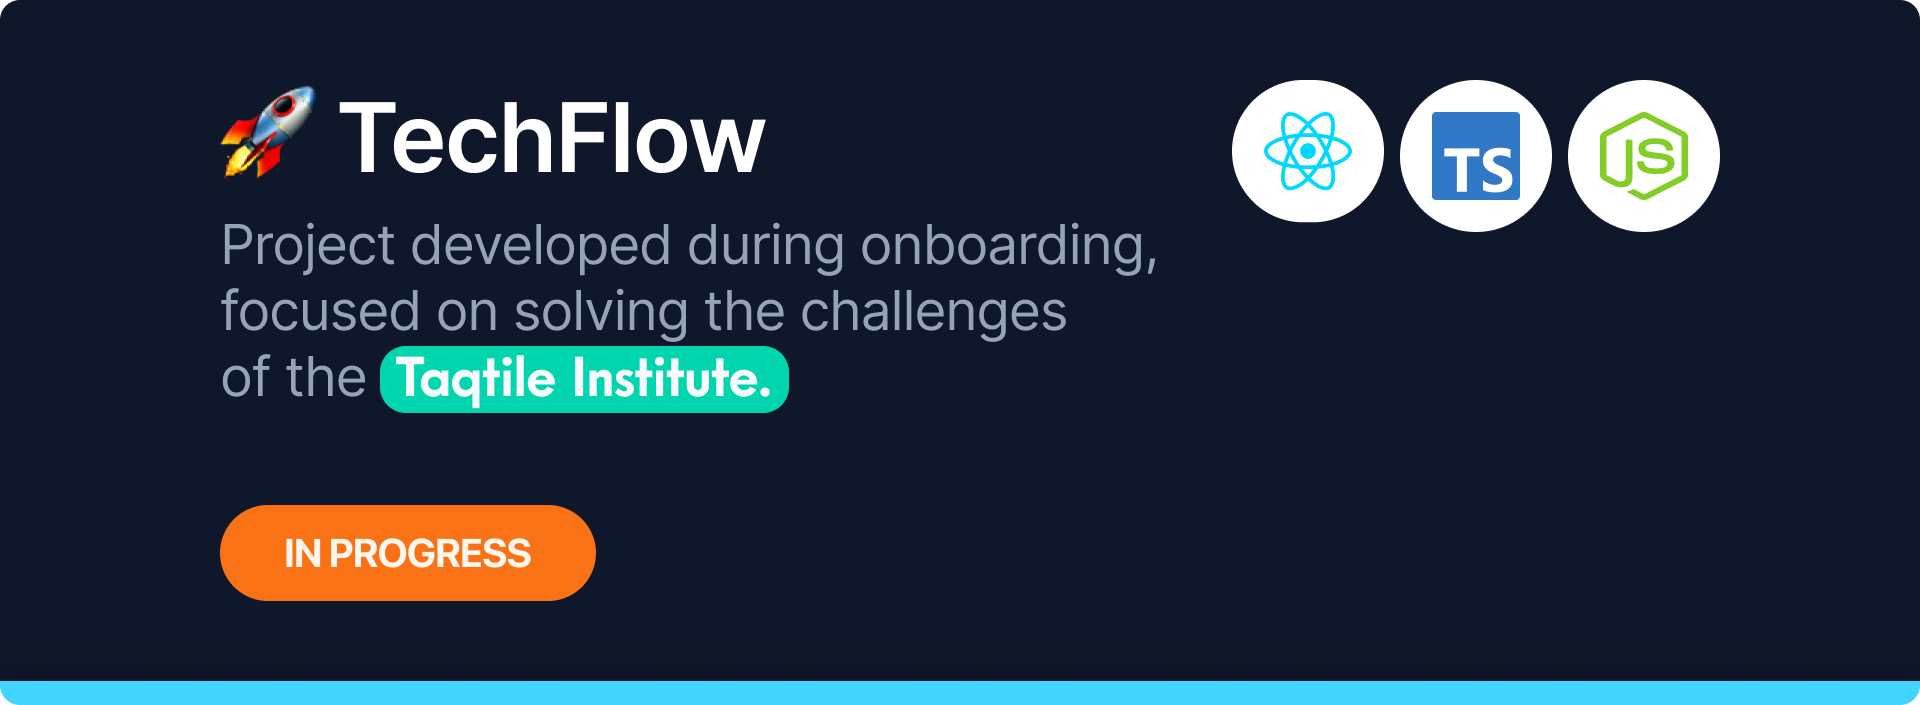
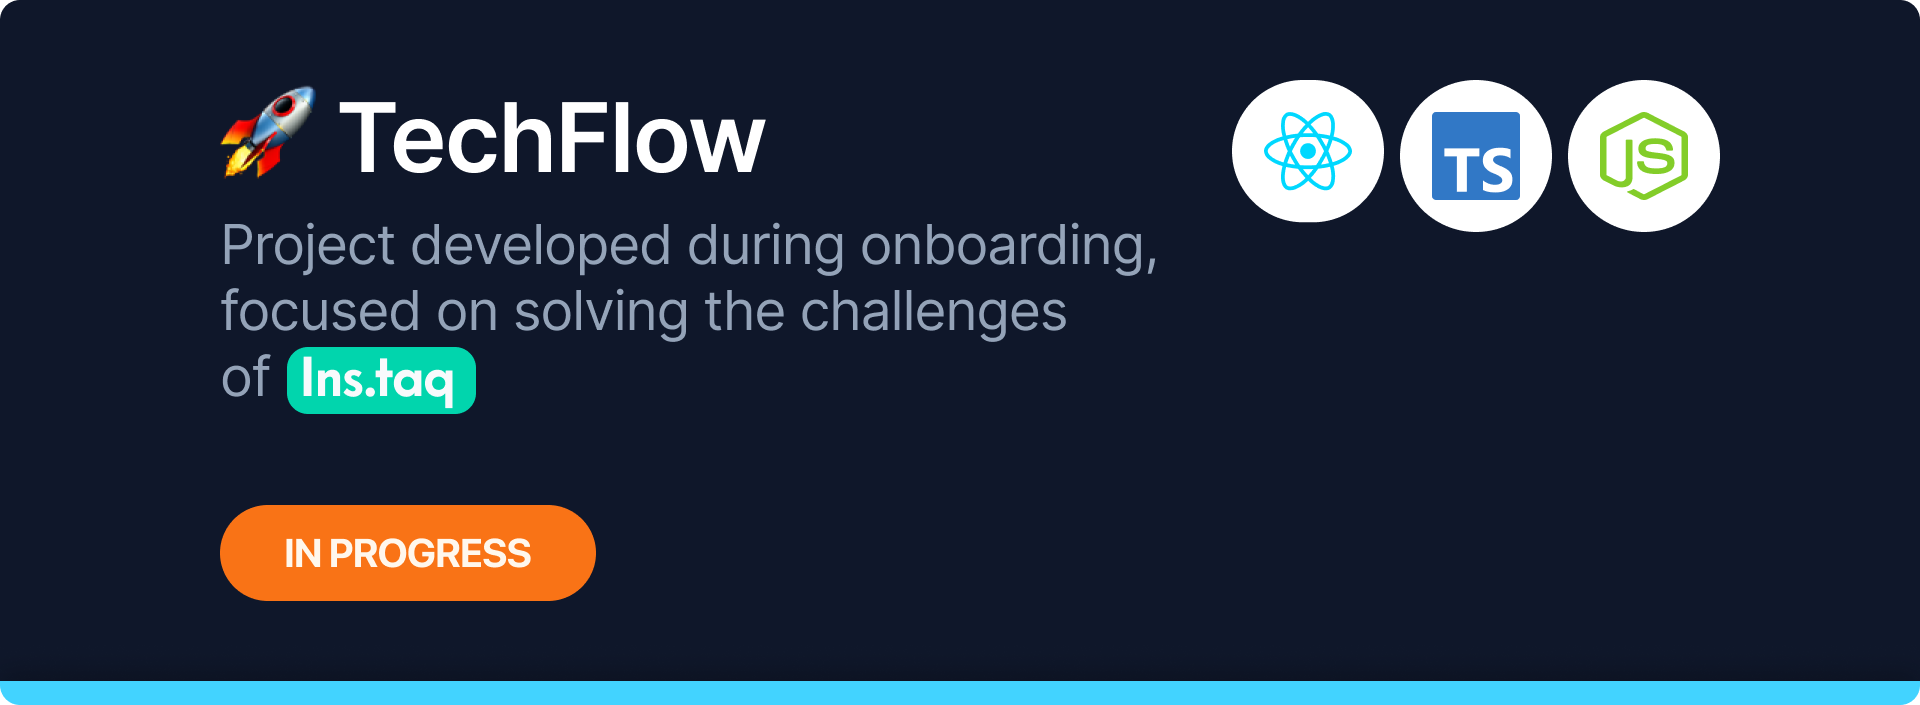
docs: update name from TaqTile to Instaq in README

Changed region(s): [[0.125, 0.4681, 0.4375, 0.5929]]

diff --git a/README.md b/README.md
@@ -1,4 +1,4 @@
-<h1 align="center">TechFlow - TaqTile</h1>
+<h1 align="center">TechFlow - Instaq</h1>
 
 <p align="center">
   <img alt="projeto" src=".github/cover.png" width="100%">
@@ -6,7 +6,7 @@
 
 ## 🌐 Project's Description
 
-Project developed during onboarding, focused on solving the challenges of the Taqtile Institute. _(Possible Changes in the Future)_
+Project developed during onboarding, focused on solving the challenges of Instaq. _(Possible Changes in the Future)_
 
 ## 🛠 Environment and tools
 
